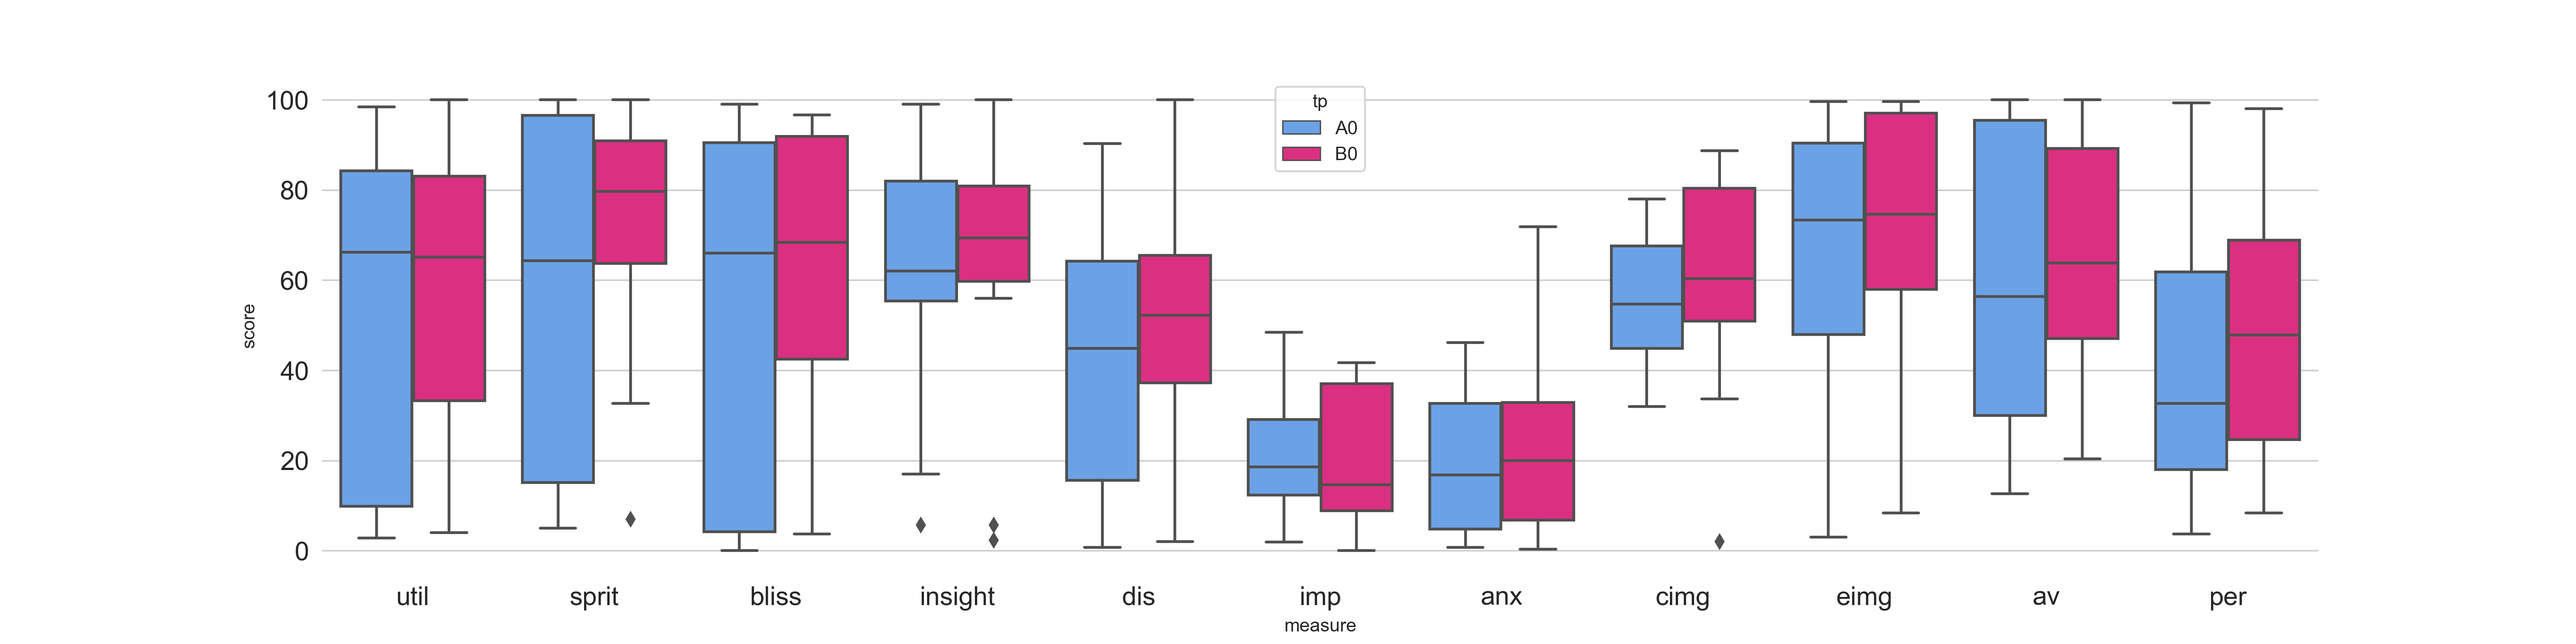
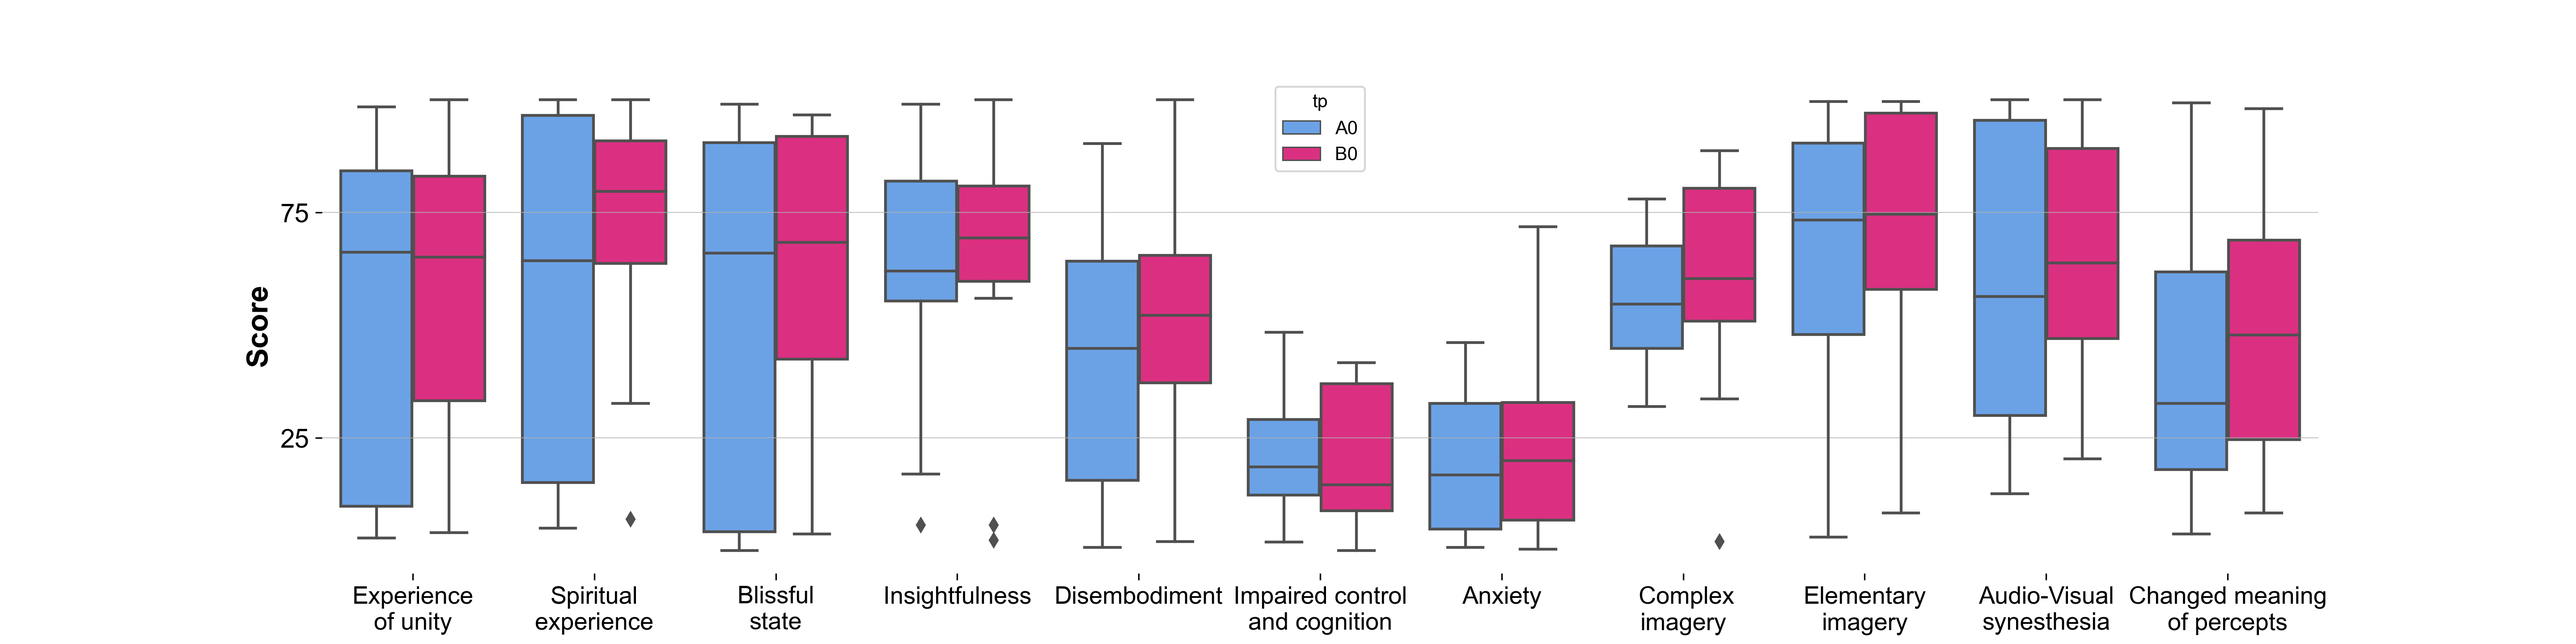
5dasc fig done

diff --git a/src/plots.py b/src/plots.py
@@ -221,6 +221,19 @@ class Controllers():
         tmp = tmp.str.replace('_total', '')
         df['measure'] = tmp
 
+        df = df.replace({
+            'util': 'Experience\nof unity',
+            'sprit': 'Spiritual\nexperience',
+            'bliss': 'Blissful\nstate',
+            'insight': 'Insightfulness',
+            'dis': 'Disembodiment',
+            'imp': 'Impaired control\nand cognition',
+            'anx': 'Anxiety',
+            'cimg': ' Complex\nimagery',
+            'eimg': 'Elementary\nimagery',
+            'av': 'Audio-Visual\nsynesthesia',
+            'per': 'Changed meaning\nof percepts',}, regex=True,)
+
         fig = plt.figure()
         ax = fig.add_subplot(1, 1, 1)
         fig.set_size_inches([4*4.8, 4.8])
@@ -234,11 +247,14 @@ class Controllers():
                 'A0': '#56A0FB',
                 'B0': '#F71480'},)
 
-        #ax.set_xlabel(fontdict=config.axislabel_fontdict)
-        ax.tick_params(axis='both', which='major', labelsize=config.ticklabel_fontsize)
-        ax.xaxis.grid(False)
-
+        ax.tick_params(axis='y', which='major', labelsize=config.ticklabel_fontsize)
+        ax.tick_params(axis='x', which='major', labelsize=13)
+        ax.set_ylabel('Score', fontdict=config.axislabel_fontdict)
+        ax.set_xlabel('')
+        ax.set_yticks([25, 75])
         sns.despine(top=True, right=True, left=True, bottom=True)
+        ax.yaxis.grid(True, linewidth=0.5, alpha=.75)
+        ax.xaxis.grid(False)
 
         Helpers.save_fig(
             fig = fig,

diff --git a/run.py b/run.py
@@ -12,7 +12,7 @@ import os
 
 
 """ process data """
-if True: # create master DF from raw data files
+if False: # create master DF from raw data files
     df = core.DataWrangl.get_master_df()
 
 if False: # create 5DASC DF from raw data files
@@ -21,7 +21,7 @@ if False: # create 5DASC DF from raw data files
 if False: # create vitals DF from raw data files
     df_vitals = core.DataWrangl.get_vitals_df()
 
-if True: # create master DF with all potential bsl covariates
+if False: # create master DF with all potential bsl covariates
     df = core.DataWrangl.get_covariates_master_df(
         df = pd.read_csv(
             os.path.join(folders.data, 'pdp1_MASTER.csv')),
@@ -65,7 +65,7 @@ if False: # make agg/ind time evolution plots
             os.path.join(folders.data, 'pdp1_MASTER.csv')),
             out_dir=folders.ind_timeevols)
 
-if False: # make 5DASC compariosn plots
+if True: # make 5DASC compariosn plots
 
     plots.Controllers.make_5dasc(
         df=pd.read_csv(

diff --git a/src/config.py b/src/config.py
@@ -1,14 +1,11 @@
 import matplotlib.pyplot as plt
 import seaborn as sns
 
-#sns.set_style("whitegrid")
-#sns.set_style("ticks")
-
 sns.color_palette("colorblind")
 sns.despine()
 
 savePNG=True
-saveSVG=True
+saveSVG=False
 
 plt.rcParams.update({'font.family': 'arial'})
 title_fontdict = {'fontsize': 20, 'fontweight': 'bold'}
